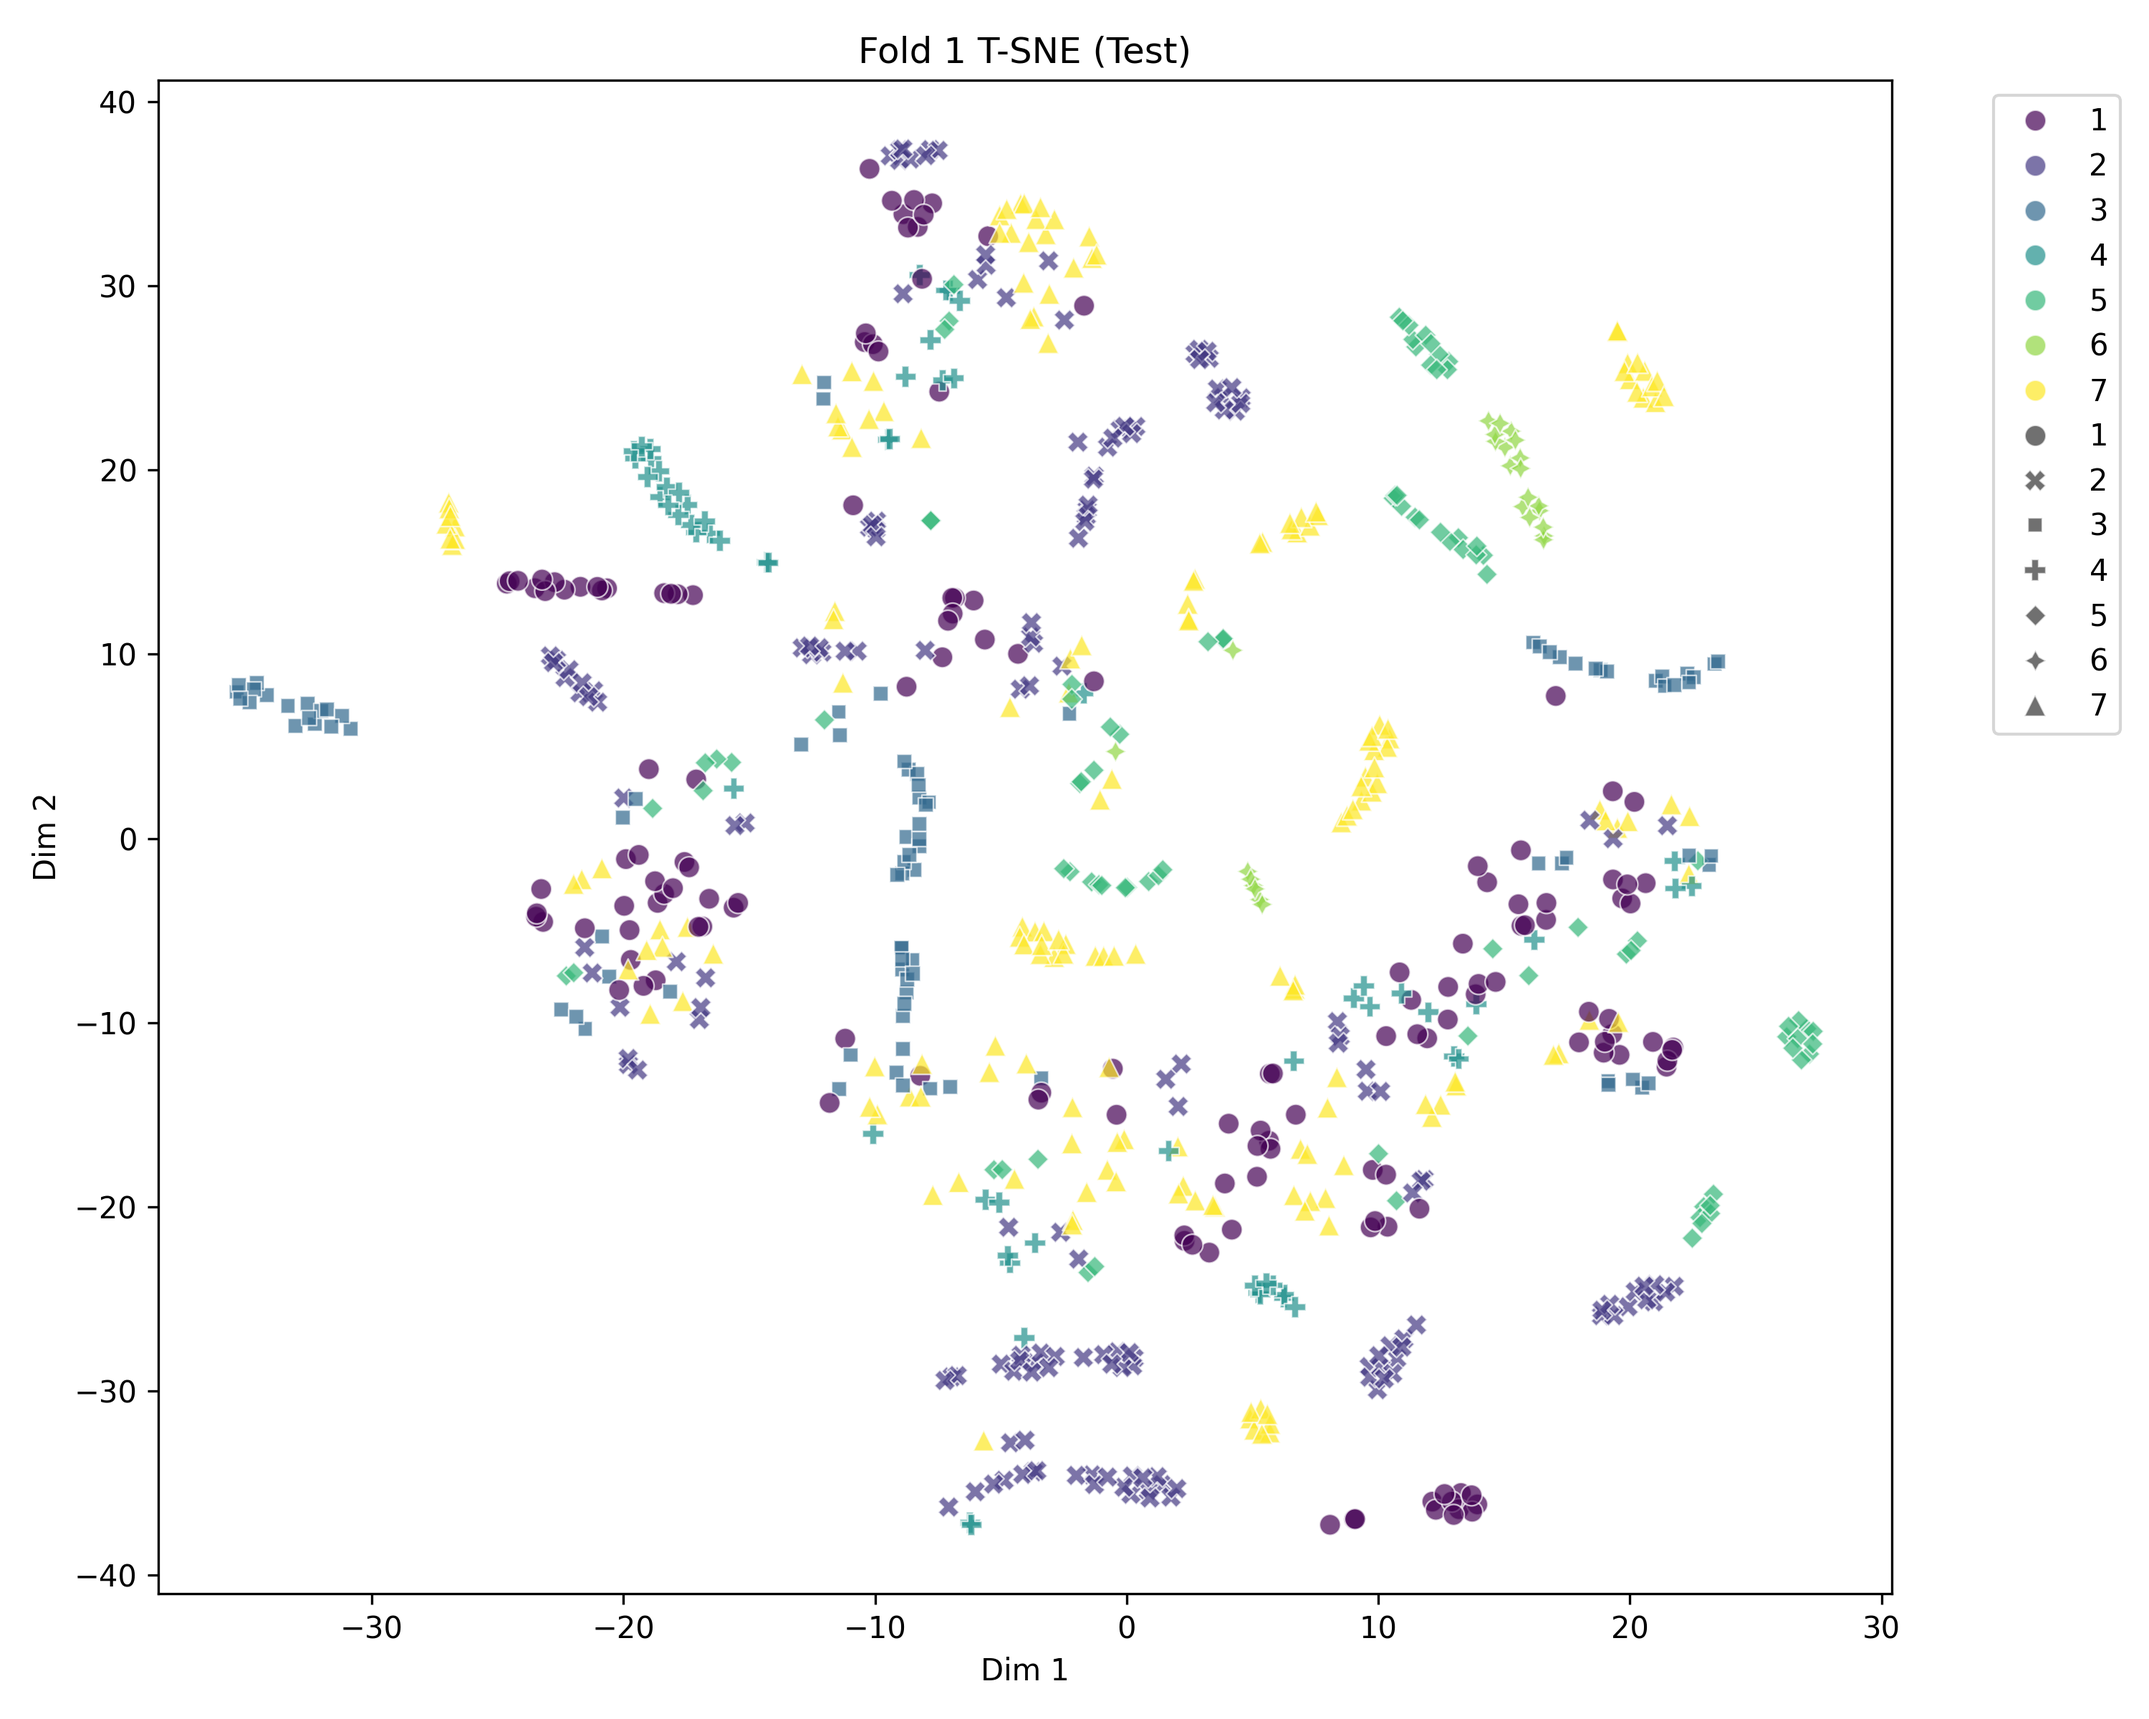
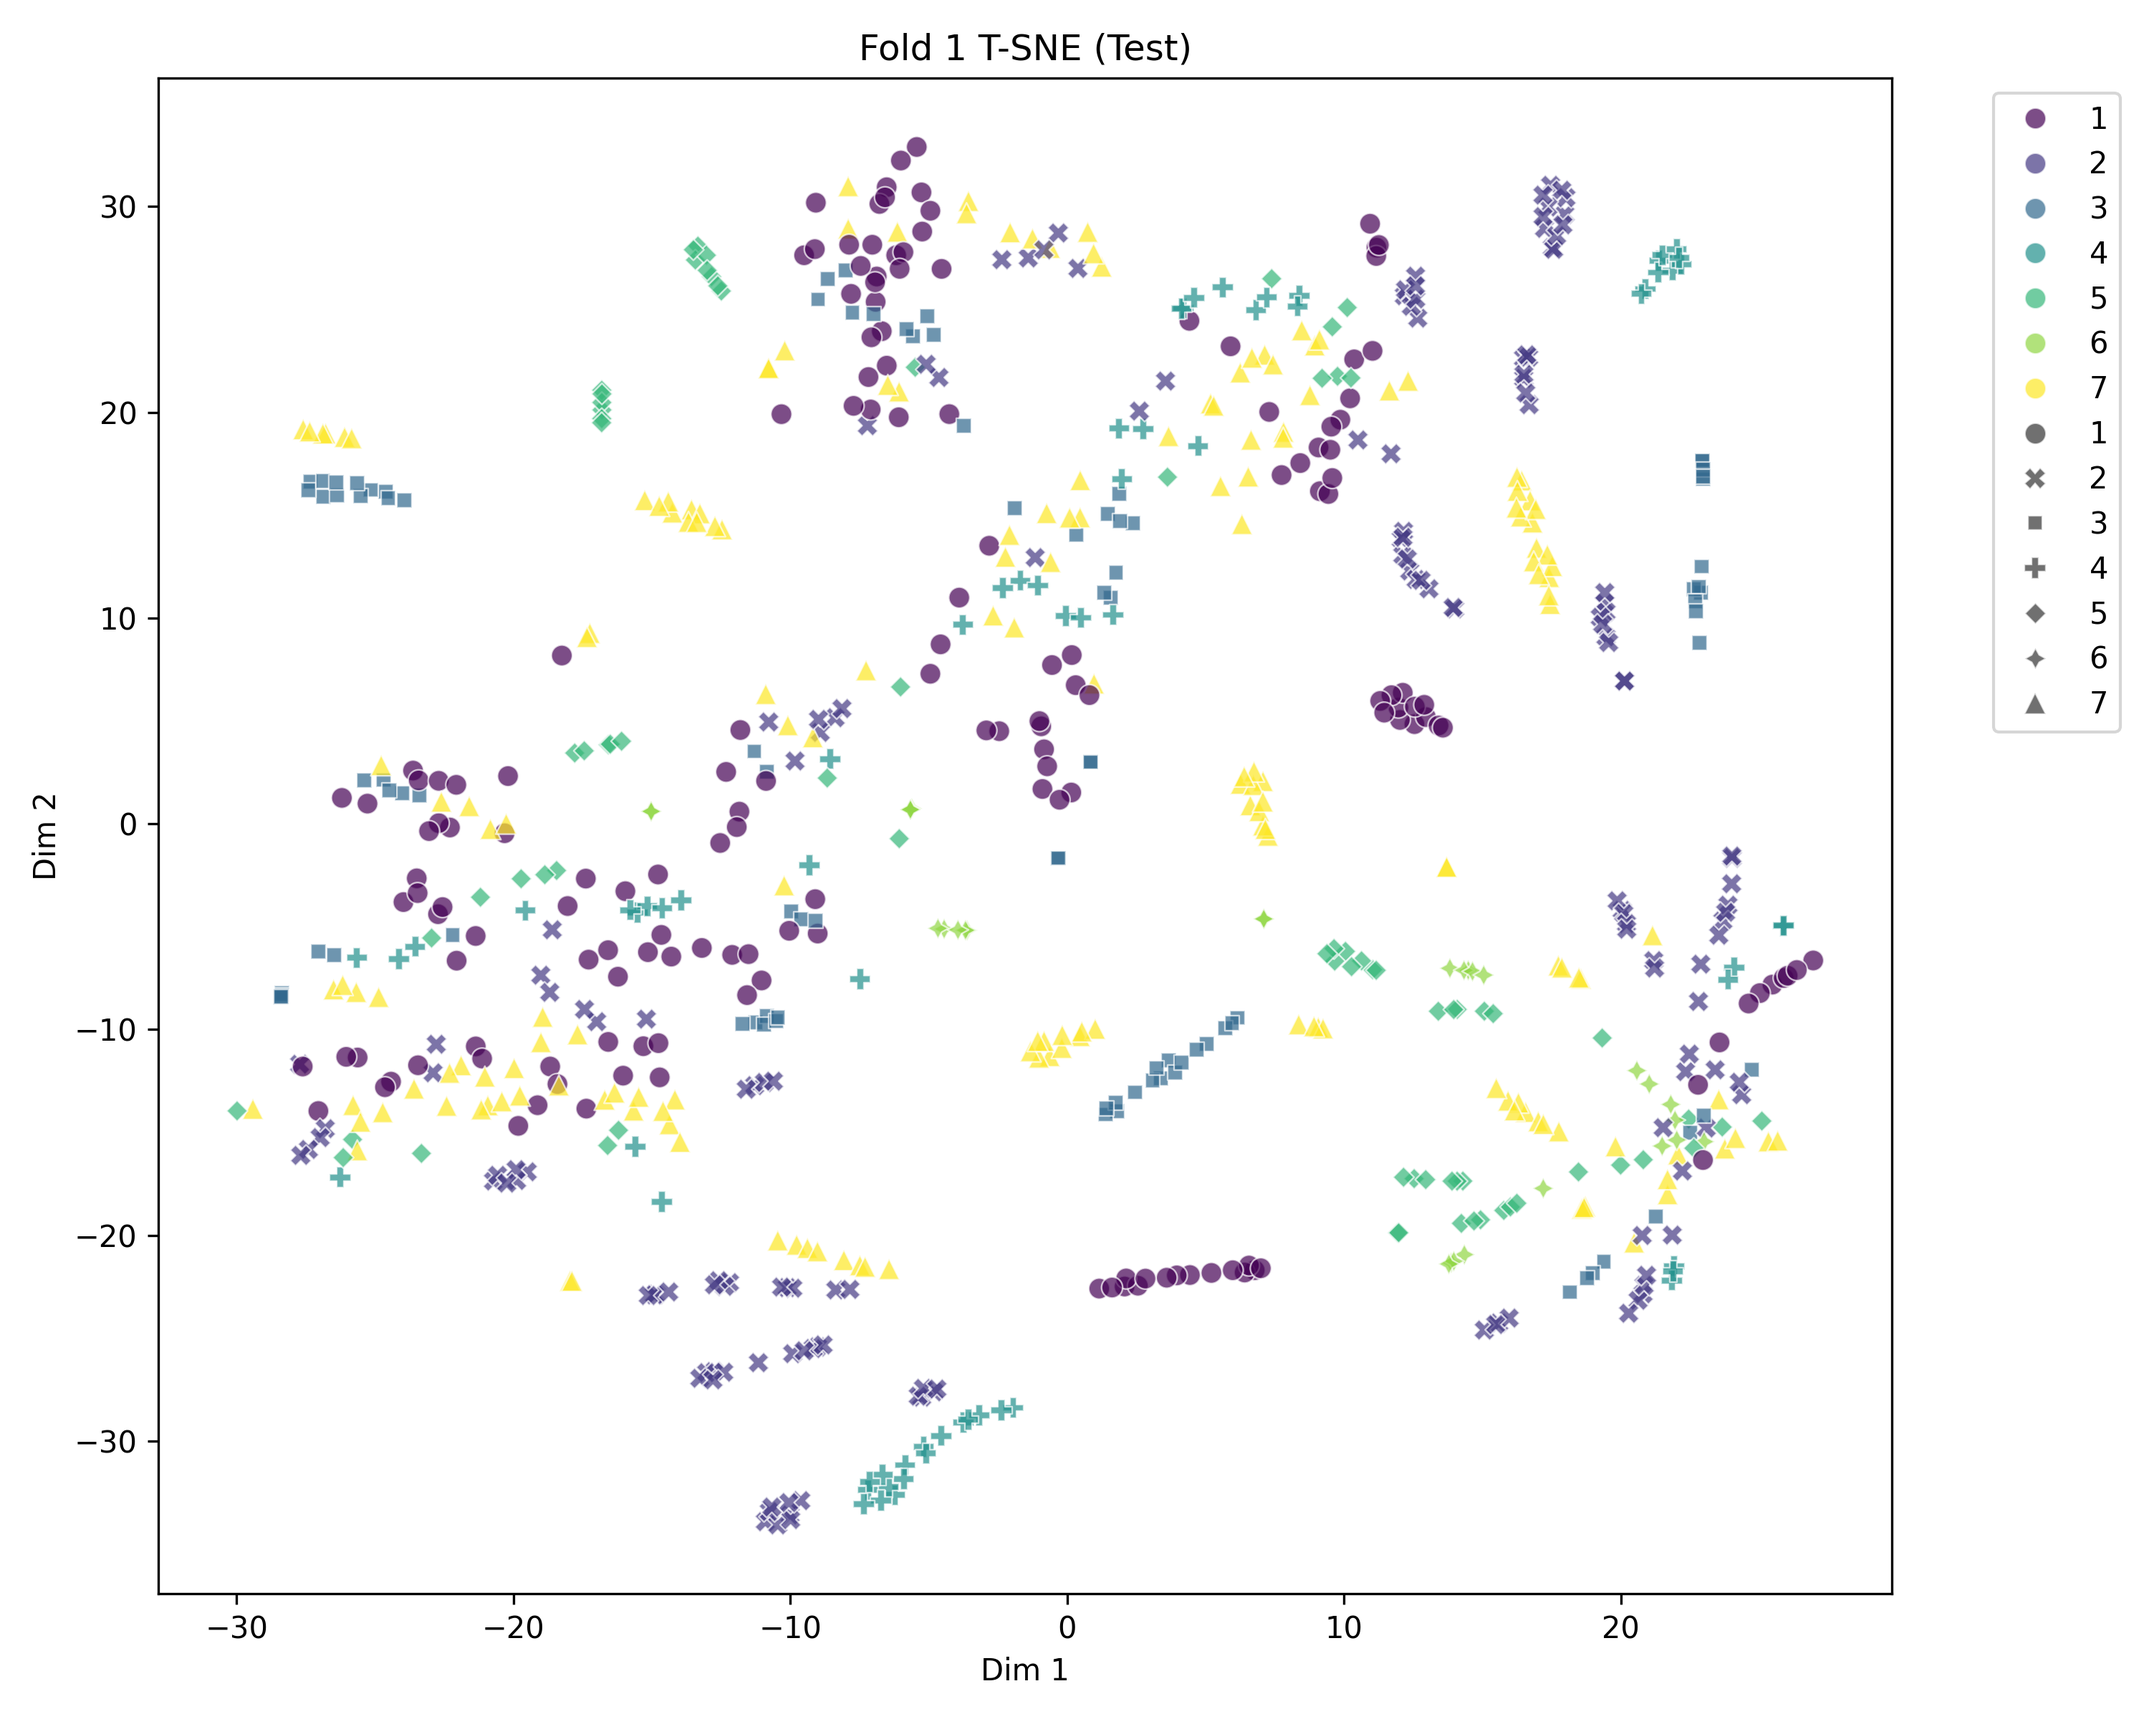
add ts2vec_modified_pipline.py

diff --git a/ts2vec_modified_pipeline.py b/ts2vec_modified_pipeline.py
@@ -10,8 +10,12 @@ from preprocess_badminton_data import load_skill_levels_from_annotation
 from processed_data_loader import ProcessedBadmintonDataset
 import torch.optim as optim
 import json
+import matplotlib.pyplot as plt
 import os
 import numpy as np
+from sklearn.manifold import TSNE
+import seaborn as sns
+import pandas as pd
 
 
 def setup_dataset(processed_data_folder):
@@ -168,6 +172,7 @@ class TS2Vec:
     """사용자가 데이터를 넣기 쉽도록 만든 래퍼 클래스"""
     def __init__(self, input_dims, output_dims=320, hidden_dims=64, depth=10, device='cuda'):
         self.device = device
+        self.hidden_dims = hidden_dims
         self.model = DilatedConvEncoder(input_dims, output_dims, hidden_dims, depth).to(device)
         self.optimizer = torch.optim.AdamW(self.model.parameters(), lr=0.001)
         
@@ -201,8 +206,9 @@ class TS2Vec:
                 self.optimizer.zero_grad()
                 
                 # Timestamp Masking 생성 (Bernoulli p=0.5) [cite: 132]
-                mask1 = torch.from_numpy(np.random.binomial(1, 0.5, x1.shape)).to(self.device).float()
-                mask2 = torch.from_numpy(np.random.binomial(1, 0.5, x2.shape)).to(self.device).float()
+                
+                mask1 = torch.from_numpy(np.random.binomial(1, 0.5, size=(x1.shape[0], x1.shape[1], 1))).to(self.device).float()
+                mask2 = torch.from_numpy(np.random.binomial(1, 0.5, size=(x2.shape[0], x2.shape[1], 1))).to(self.device).float()
                 
                 # Forward Pass (두 개의 뷰 생성)
                 z1 = self.model(x1, mask1)
@@ -236,9 +242,147 @@ class TS2Vec:
                 outputs.append(out.cpu().numpy())
                 
         return np.concatenate(outputs, axis=0)
+
+def visualize_embeddings(embeddings, labels, fold_idx, save_dir, suffix="Test"):
+    """
+    T-SNE 시각화 및 저장
+    Args:
+        embeddings: 임베딩 벡터 (numpy array)
+        labels: 라벨 (numpy array)
+        fold_idx: 현재 Fold 번호
+        save_dir: 저장할 폴더 경로 (예: ./results/tsne_images)
+        suffix: 파일명 및 제목 접미사 (Train 또는 Test)
+    """
+    embeddings = np.max(embeddings, axis=1)
+    print(f"Pooling 후 형태: {embeddings.shape}") # (3000, 64)
+
+    if type(labels) is list:
+        labels = np.array(labels)
+
+    # NaN 값 안전 장치 (이전 에러 방지)
+    if np.isnan(embeddings).any():
+        print(f"⚠ Warning: NaN found in {suffix} embeddings. Replacing with 0 for visualization.")
+        embeddings = np.nan_to_num(embeddings)
+
+    print(f"Generating T-SNE for Fold {fold_idx} ({suffix})...")
+    
+    # T-SNE 설정 (init='random'으로 안정성 확보)
+    tsne = TSNE(
+        n_components=2, 
+        random_state=42, 
+        perplexity=30, 
+        max_iter=1000
+    )
+    
+    # 데이터가 너무 많으면 시간이 오래 걸리므로 3000개 정도로 샘플링하는 것도 방법
+    # 여기선 일단 전체 다 그립니다.
+    tsne_results = tsne.fit_transform(embeddings)
+
+    print(f"t-SNE 결과 형태: {tsne_results.shape}") # (3000, 2)
+    # 시각화 데이터프레임
+    
+    df = pd.DataFrame({
+        'x': tsne_results[:, 0],
+        'y': tsne_results[:, 1],
+        'Skill Level': labels.astype(int)
+    })
+    
+    # 그래프 그리기
+    plt.figure(figsize=(10, 8))
+    sns.scatterplot(
+        data=df, 
+        x='x', y='y', 
+        hue='Skill Level', 
+        palette='viridis', 
+        style='Skill Level',
+        s=50, 
+        alpha=0.7
+    )
+    
+    plt.title(f'Fold {fold_idx} T-SNE ({suffix})')
+    plt.xlabel('Dim 1')
+    plt.ylabel('Dim 2')
+    plt.legend(bbox_to_anchor=(1.05, 1), loc='upper left')
+    plt.tight_layout()
+    
+    
+    # 파일 저장 (폴더는 이미 만들어져 있다고 가정하거나 여기서 생성)
+    os.makedirs(save_dir, exist_ok=True)
+    filename = f'tsne_fold_{fold_idx}_{suffix}.png'
+    save_path = os.path.join(save_dir, filename)
+    
+    plt.savefig(save_path, dpi=300)
+    plt.close() # 메모리 해제
+    print(f"Saved: {save_path}")
+
+
+def run_kfold_experiment(dataset, stroke_type, joint_type, body_part, k=5, epoch = 20, batch_size=16,
+                         hidden_dim = 64, output_dim = 64, device='cuda', output_dir='./results'):
+    """
+    K-Fold 교차 검증 실험 실행 함수.
+    
+    Args:
+        dataset: ProcessedBadmintonDataset 객체
+        stroke_type: 'clear' 또는 'drive'
+        joint_type: 'global' 또는 'local'
+        body_part: 'total', 'arm', 또는 'leg'
+        k: K-Fold 개수
+        epoch: TS2Vec 학습 epoch 수
+        output_dim: TS2Vec 출력 차원
+        hidden_dim: TS2Vec 은닉 차원
+        batch_size: 배치 크기
+        device: 학습에 사용할 디바이스 ('cuda', 'mps', 'cpu' 등)
+        output_dir: 결과 저장 디렉토리 경로
+    Returns:
+        results: 실험 결과 딕셔너리
+    """
+    os.makedirs(output_dir, exist_ok=True)
+    
+    tsne_save_dir = os.path.join(output_dir, 'tsne_images')
+    os.makedirs(tsne_save_dir, exist_ok=True)
+
+    folds, labels = dataset.split_data_Kfold_randomly(stroke_type, k, body_part)
+    accumulated_accuracy = []
+    logs = []
+
+    print(f"Starting experiment: {stroke_type}_{joint_type}_{body_part}")
+    
+    for fold_idx in range(k):
+        print(f"\n{'='*20}\n Fold {fold_idx+1} / {k} \n{'='*20}")
+        
+        # --- 1. 데이터 준비 ---
+        train_data = [stroke for i, fold in enumerate(folds) if i != fold_idx for stroke in fold]
+        test_data = folds[fold_idx]
+        train_labels =[l for i, label in enumerate(labels) if i != fold_idx for l in label]
+        test_labels = labels[fold_idx]
+
+        sample_data = train_data[0]
+        input_dim = len(sample_data[0]) 
+        print(f"Input dimension: {input_dim}")
+        print(f"\n[Step 1] Training TS2Vec (Self-Supervised)...{len(train_data)}")
+
+        train_data = np.array(train_data)
+        test_data = np.array(test_data)
+        
+        model = TS2Vec(input_dims=input_dim, hidden_dims=hidden_dim, output_dims=output_dim, device=device)
+        model.fit(train_data=train_data, n_epochs=epoch, batch_size=batch_size)
+
+        train_embeddings = model.encode(train_data)
+        
+        print(f"추출된 표현의 형태: {train_embeddings.shape}")
+
+        visualize_embeddings(
+            train_embeddings, 
+            train_labels, 
+            fold_idx=fold_idx+1, 
+            save_dir=tsne_save_dir, # 하위 폴더 지정
+            suffix="Train"
+        )
+
+
 def main():
     processed_data_folder = './Processed_Data'
-    output_dir = './results_lstm'
+    output_dir = './results_ts2vec'
     
     device = 'cuda' if torch.cuda.is_available() else 'mps' if torch.backends.mps.is_available() else 'cpu'
     print(f"Using device: {device}")
@@ -272,16 +416,19 @@ def main():
     all_results = []
     for stroke_type, joint_type, body_part in experiments:
         try:
-            result = run_kfold_experiment(
-                dataset,
-                stroke_type,
-                joint_type,
-                body_part,
+            run_kfold_experiment(
+                dataset=dataset,
+                stroke_type=stroke_type,
+                joint_type=joint_type,
+                body_part=body_part,
+                k=5,
+                epoch=20,
+                batch_size=16,
+                hidden_dim=64,
+                output_dim=64,
                 device=device,
                 output_dir=output_dir
-            )
-            if result:
-                all_results.append(result)
+            )    
         except Exception as e:
             print(f"\nERROR in experiment {stroke_type}_{joint_type}_{body_part}: {e}")
             import traceback

diff --git a/ts2vec_skill_classification.py b/ts2vec_skill_classification.py
@@ -10,8 +10,6 @@ from preprocess_badminton_data import load_skill_levels_from_annotation
 from torch.nn.utils.rnn import pad_sequence
 from sklearn.metrics import accuracy_score, classification_report, confusion_matrix, mean_squared_error
 from torch.utils.data import Dataset, DataLoader
-import time
-from tqdm import tqdm 
 
 
 # ============================================================================
@@ -322,15 +320,13 @@ class SkillLevelTrainer:
                     reprs = output[1] 
                 else:
                     reprs = output
-
                 reprs = reprs.transpose(1, 2)
                 
                 pool_out = F.max_pool1d(reprs, kernel_size=reprs.size(-1))
                 
                 vector = pool_out.squeeze().cpu().numpy()
-                
                 embeddings.append(vector)
-                
+        
         return np.vstack(embeddings) # 또는 np.vstack(embeddings)
     
     def train_epoch(self, embeddings: np.ndarray, labels: np.ndarray, batch_size=32):

diff --git a/ts2vec_pipeline.py b/ts2vec_pipeline.py
@@ -262,7 +262,7 @@ def run_kfold_experiment(dataset, stroke_type, joint_type, body_part, k=5, devic
         # 임베딩 추출 (배치 처리된 개선 버전 사용 권장)
         train_embeddings = skill_trainer.extract_embeddings(train_data)
         test_embeddings = skill_trainer.extract_embeddings(test_data)
-
+        print(train_embeddings.shape)
         train_labels_expanded = np.array(train_labels, dtype=np.float32)
         test_labels_expanded = np.array(test_labels, dtype=np.float32)
         
@@ -382,8 +382,8 @@ def main():
                 joint_type,
                 body_part,
                 device=device,
-                ts2vec_epochs=100,
-                classifier_epochs=100,
+                ts2vec_epochs=1,
+                classifier_epochs=1,
                 output_dir=output_dir
             )
             if result:
